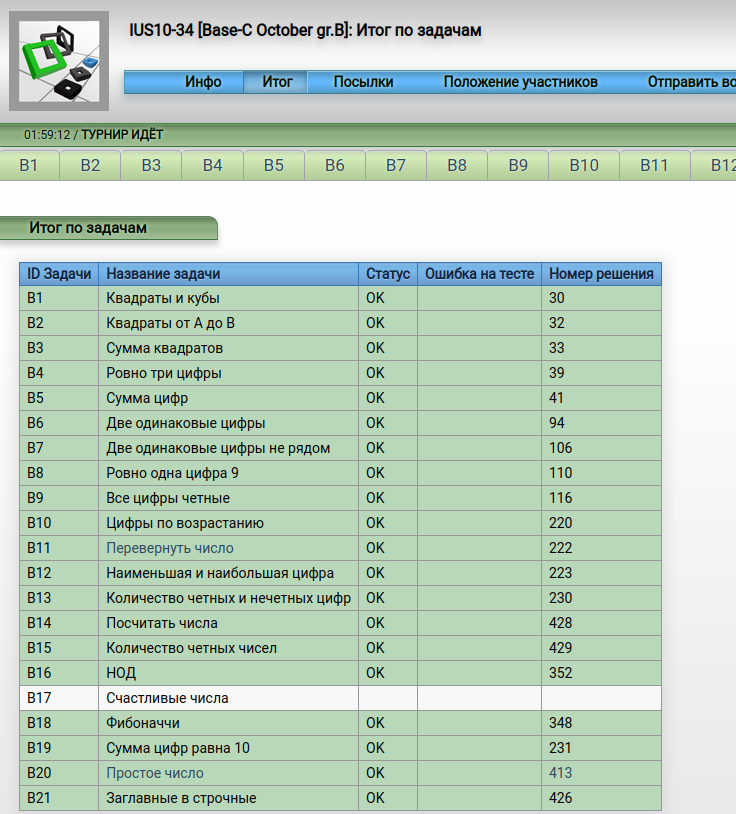
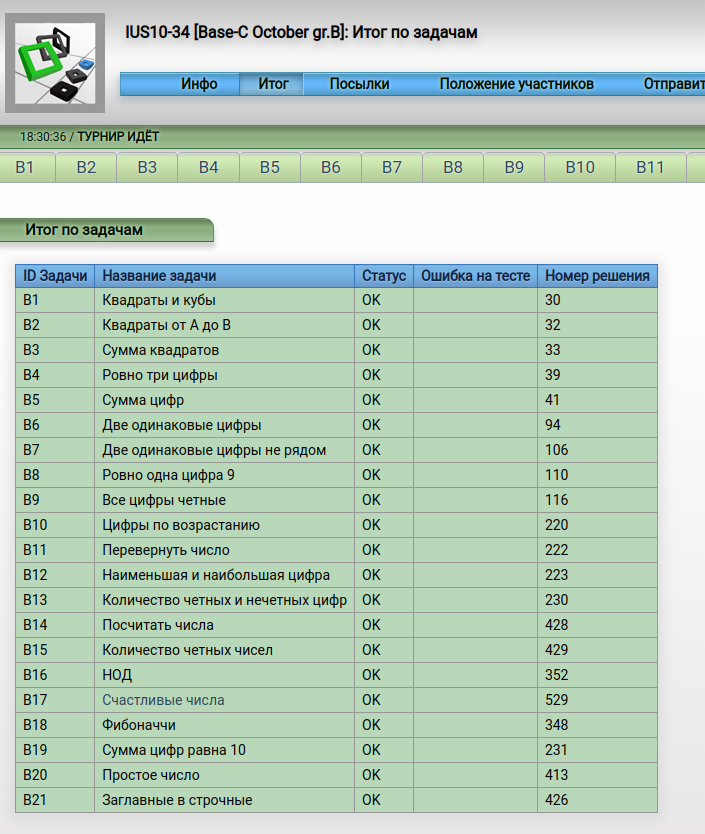
add task 17

Changed region(s): [[0.0, 0.0, 1.0, 1.0]]

diff --git a/HW5/task17.c b/HW5/task17.c
@@ -1,0 +1,28 @@
+//НОД Евклида модифицированный
+#include <stdio.h>
+
+int main(void)
+{
+  int num, i=10;
+  int sum = 0, mul = 1;
+  int digit;
+  scanf("%d", &num);
+
+  while(i <= num){
+    int tmp = i;
+    while(tmp){
+      digit = tmp % 10;
+      sum += digit;
+      mul *= digit;
+      tmp /= 10;
+    }
+    if(sum == mul)
+      printf("%d ",i);
+    sum = 0;
+    mul = 1;
+
+    i++;
+  }
+ 
+  return 0;
+}
